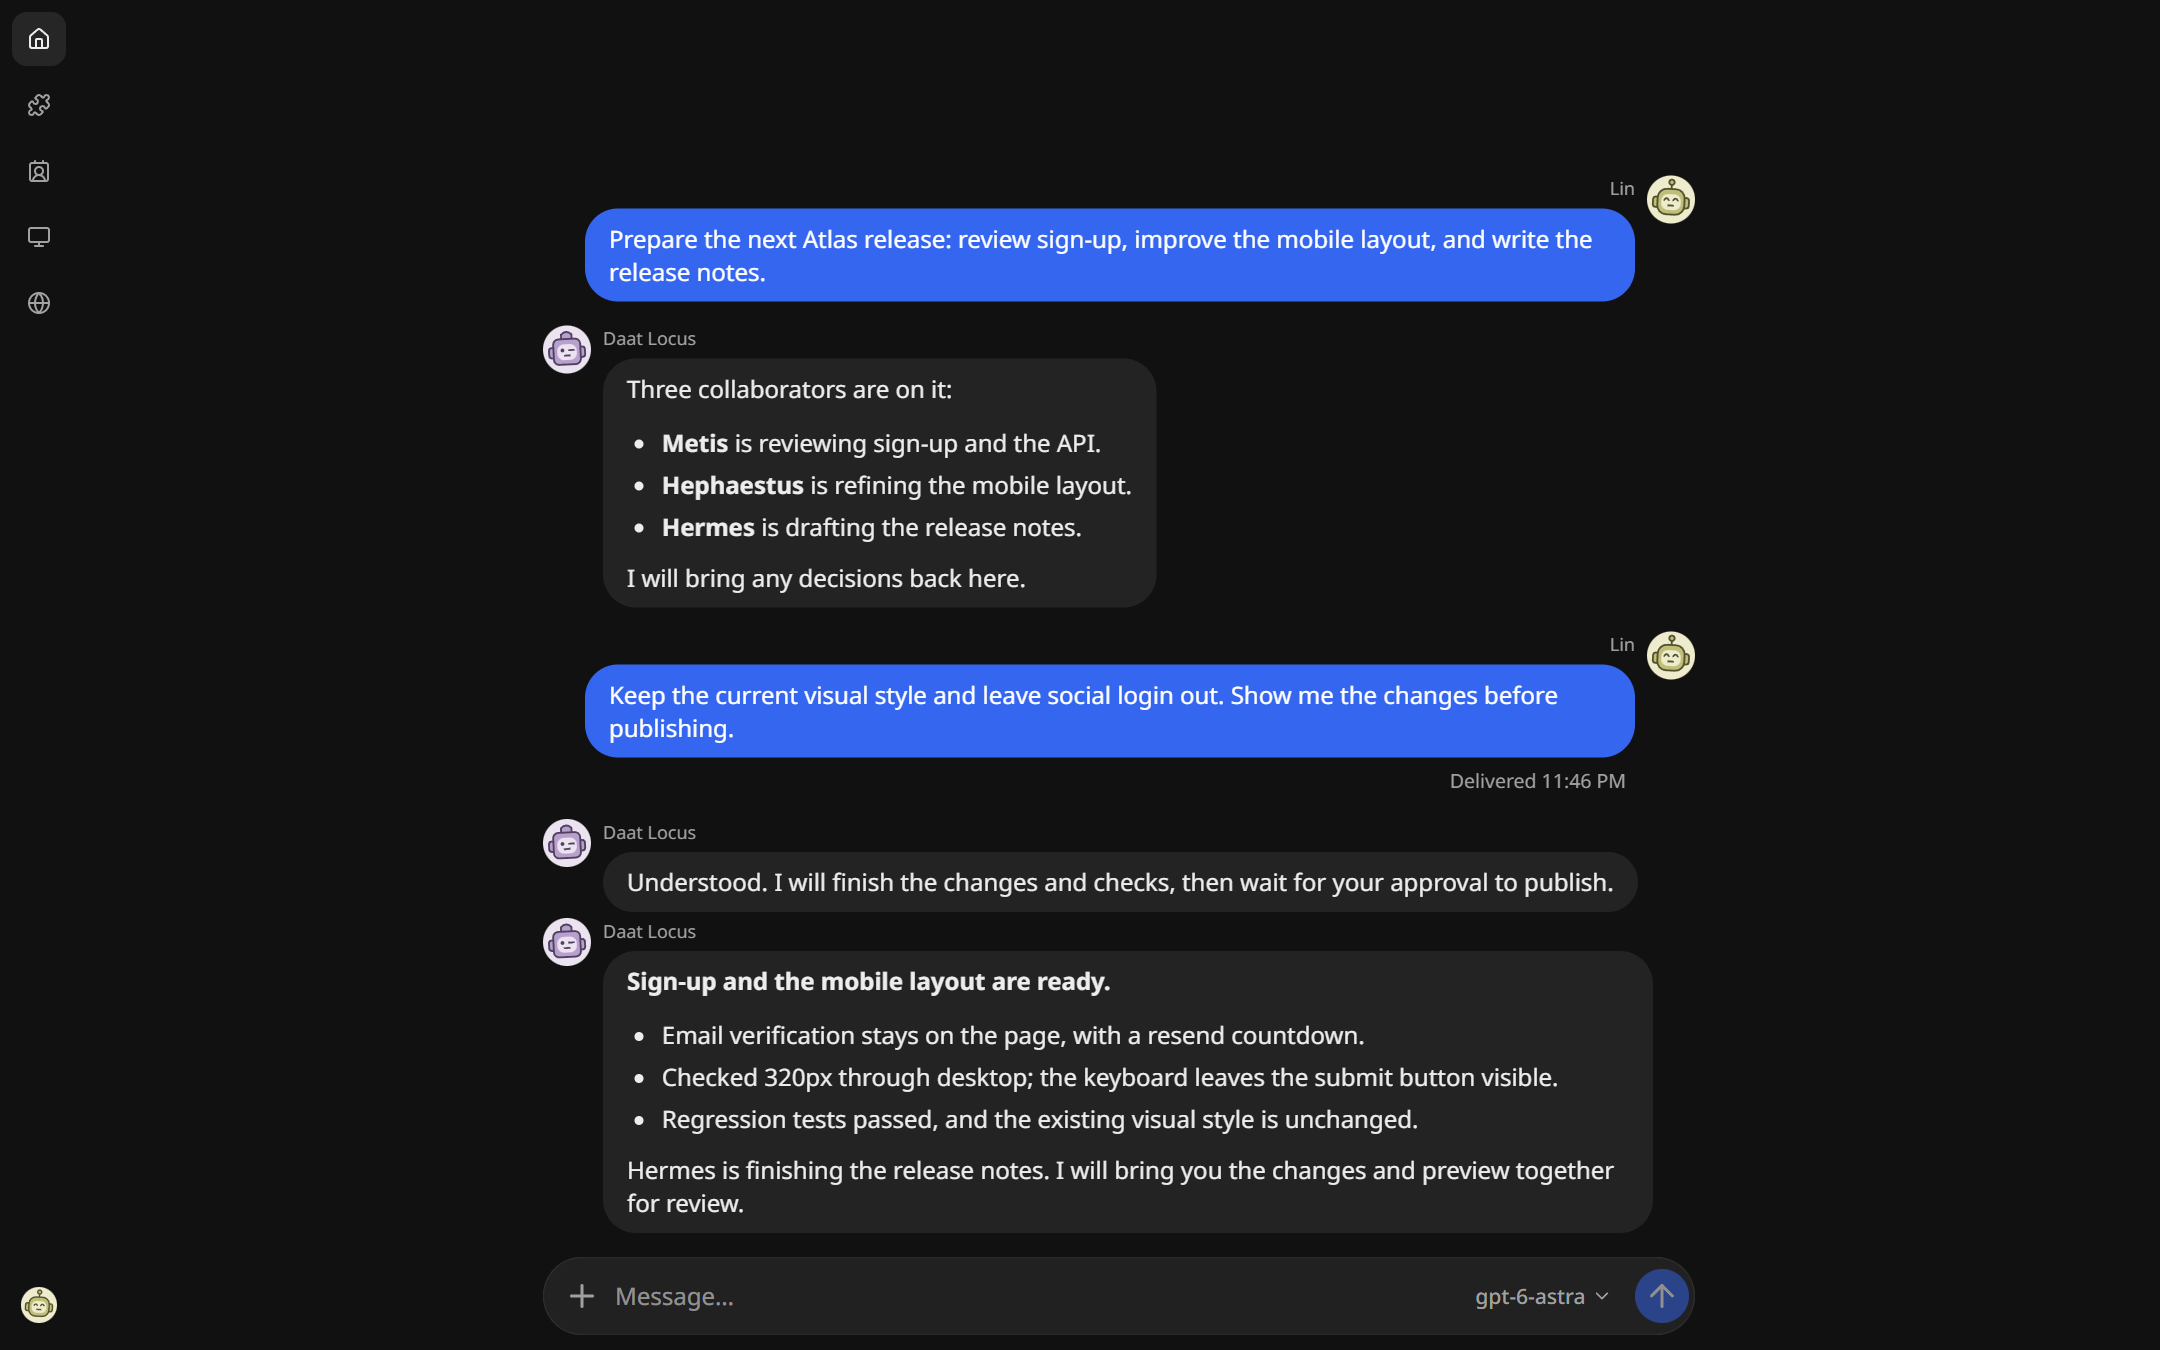
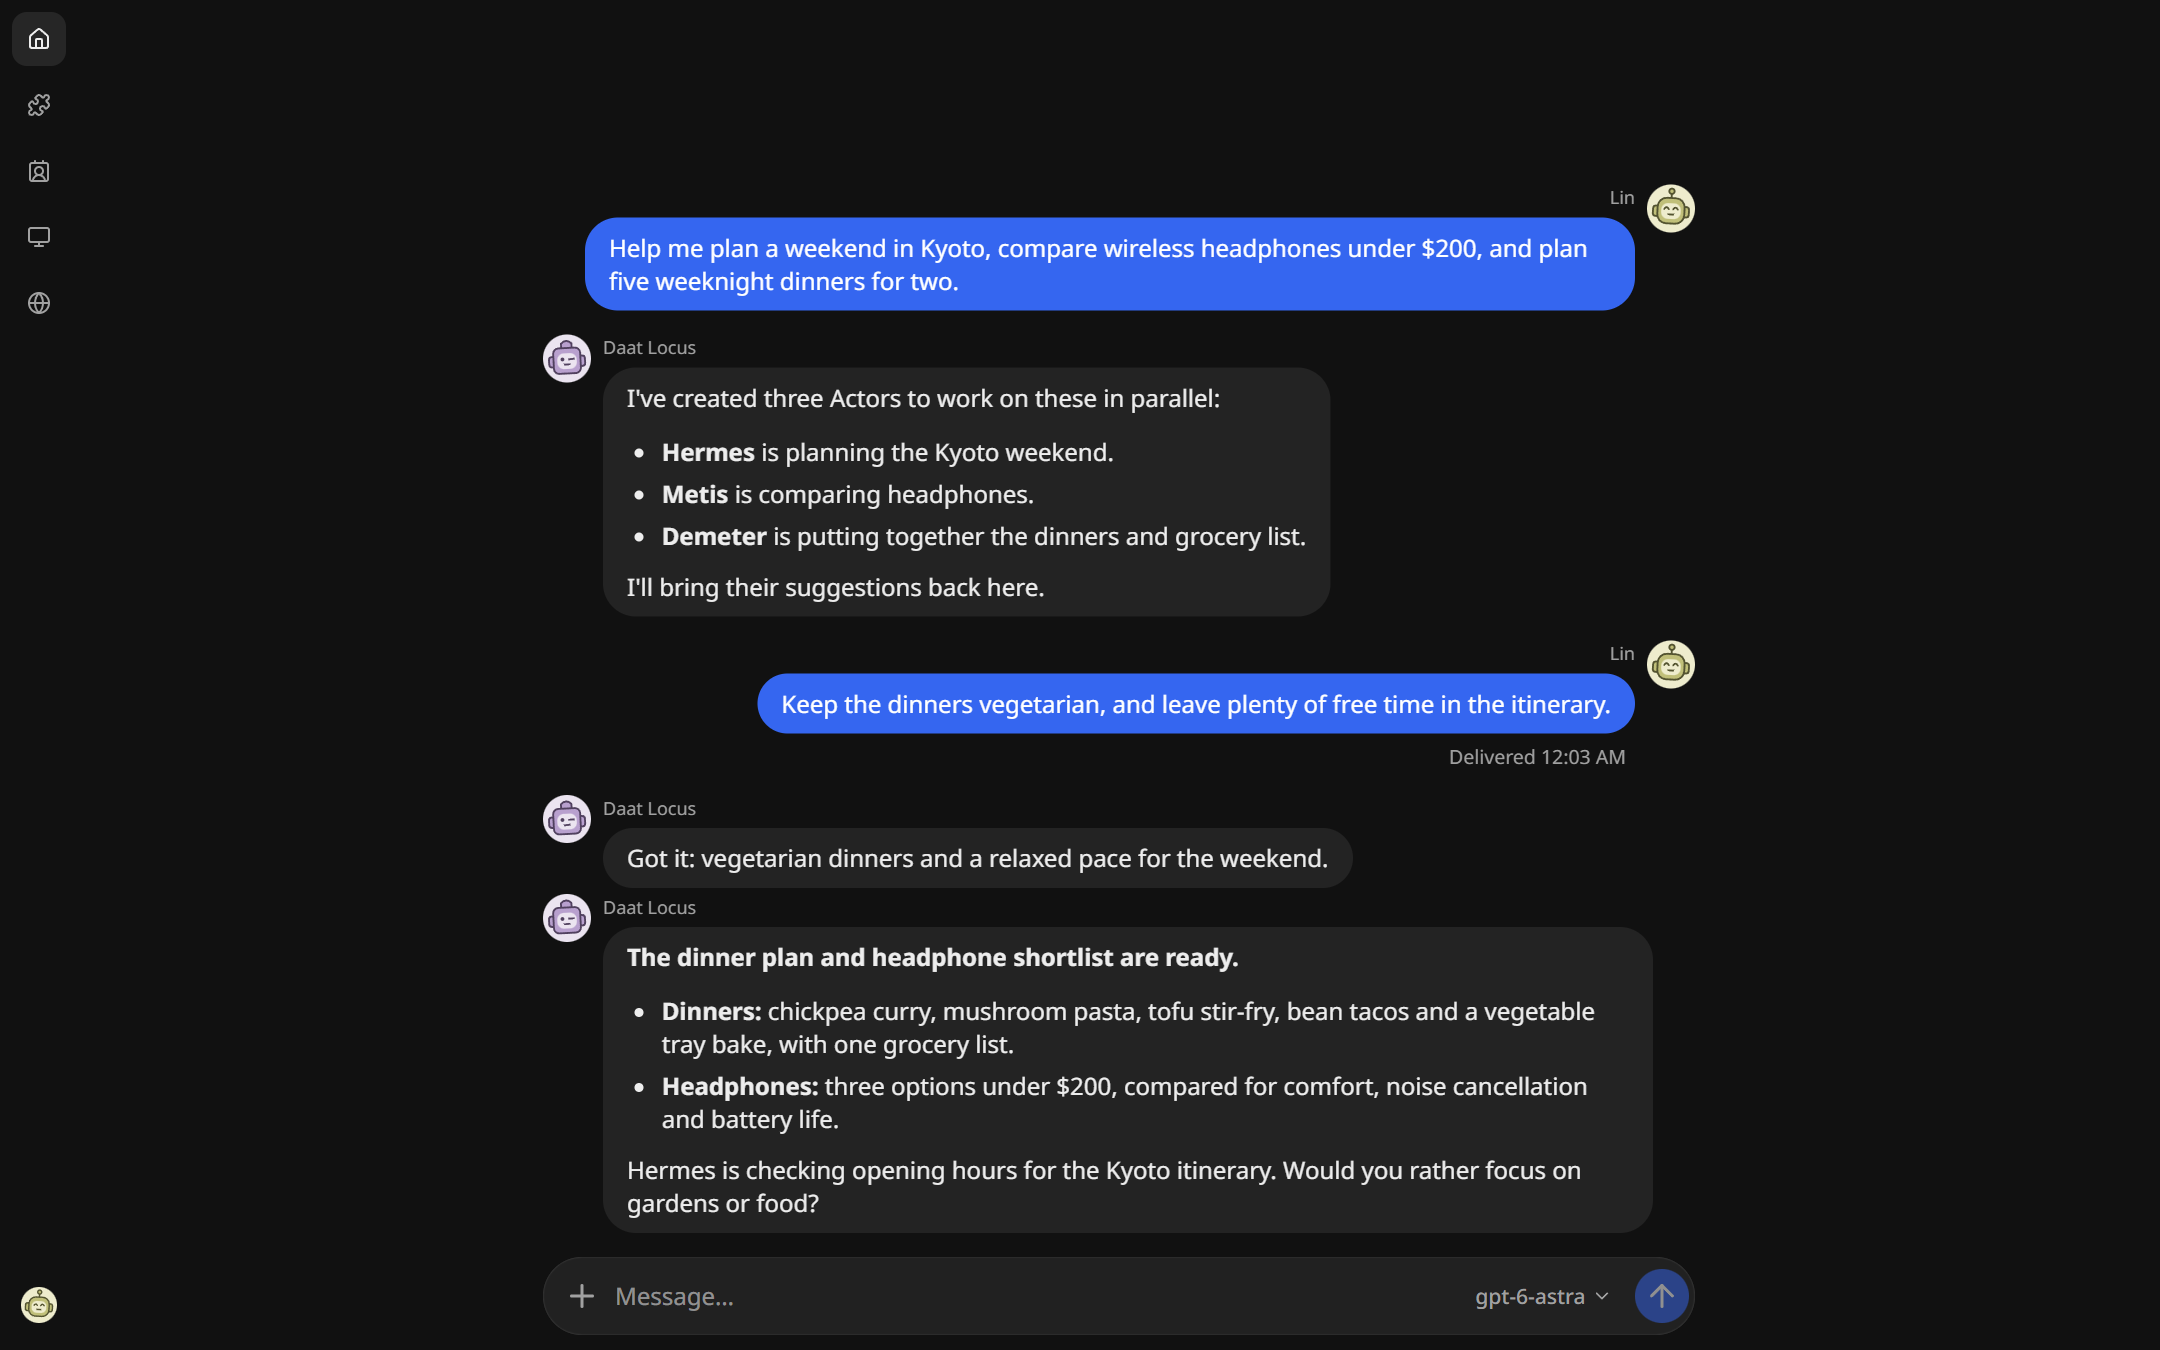
docs: show everyday Actor tasks in README screenshots

Changed region(s): [[0.2481, 0.1244, 0.8065, 0.5911], [0.2481, 0.5911, 0.7444, 0.9022]]

diff --git a/webui/mock/workspace.ts b/webui/mock/workspace.ts
@@ -1,4 +1,4 @@
-/** A normal account conversation about several collaborators preparing a release. */
+/** An everyday account conversation with several Actors working in parallel. */
 import { addMessage, configHolder, createActor, emitEvent, now, requestOrigin, ROOT_ACTOR_ID, setActorStatus, touchMessage, type ActorStore } from "./state";
 
 export function seedWorkspacePreview(core:ActorStore,metis:ActorStore) {
@@ -15,17 +15,17 @@ export function seedWorkspacePreview(core:ActorStore,metis:ActorStore) {
     emitEvent(core.summary.id,{type:"message_added",message_id:input.id});
     return input;
   }
-  const task=exchange("Prepare the next Atlas release: review sign-up, improve the mobile layout, and write the release notes.", "Three collaborators are on it:\n\n- **Metis** is reviewing sign-up and the API.\n- **Hephaestus** is refining the mobile layout.\n- **Hermes** is drafting the release notes.\n\nI will bring any decisions back here.",8);
-  exchange("Keep the current visual style and leave social login out. Show me the changes before publishing.", "Understood. I will finish the changes and checks, then wait for your approval to publish.",6);
-  const developers=[metis,...["Hephaestus","Hermes"].map((name,index)=>createActor({id:name.toLowerCase(),name,parent_id:ROOT_ACTOR_ID,model:aliases[index===0?2:1],workspace:"~/Projects/atlas",apps:[],instructions:""}))];
-  const tasks=["Review email verification and resend behavior in the sign-up API.","Improve the mobile sign-up layout while preserving the current style.","Draft release notes for the sign-up and mobile changes. Do not publish."];
-  for(const [index,actor] of developers.entries()) {
+  const task=exchange("Help me plan a weekend in Kyoto, compare wireless headphones under $200, and plan five weeknight dinners for two.", "I've created three Actors to work on these in parallel:\n\n- **Hermes** is planning the Kyoto weekend.\n- **Metis** is comparing headphones.\n- **Demeter** is putting together the dinners and grocery list.\n\nI'll bring their suggestions back here.",8);
+  exchange("Keep the dinners vegetarian, and leave plenty of free time in the itinerary.", "Got it: vegetarian dinners and a relaxed pace for the weekend.",6);
+  const collaborators=[metis,...["Demeter","Hermes"].map(name=>createActor({id:name.toLowerCase(),name,parent_id:ROOT_ACTOR_ID,model:aliases[1],workspace:"~/Documents/Plans",apps:[],instructions:""}))];
+  const tasks=["Compare wireless headphones under $200 for comfort, noise cancellation and battery life.","Plan five vegetarian weeknight dinners for two, with one grocery list.","Plan a relaxed two-day Kyoto itinerary with plenty of free time. Check opening hours and group nearby stops."];
+  for(const [index,actor] of collaborators.entries()) {
     const input=addMessage(actor,{kind:"request",source:{kind:"actor",actor_id:ROOT_ACTOR_ID},reply_to:{kind:"actor",actor_id:ROOT_ACTOR_ID,request_id:task.id},content:tasks[index],status:index===2?"running":"completed"});
-    touchMessage(input,{created_at_ms:clock-7*60000,started_at_ms:clock-7*60000+800,finished_at_ms:index===2?null:clock-2*60000,reply:index===2?null:["Email verification and resending are checked. The regression tests passed.","Checked widths from 320px to desktop. The submit button stays visible above the keyboard."][index]});
+    touchMessage(input,{created_at_ms:clock-7*60000,started_at_ms:clock-7*60000+800,finished_at_ms:index===2?null:clock-2*60000,reply:index===2?null:["Three headphones shortlisted under $200, with a comparison of comfort, noise cancellation and battery life.","Five vegetarian dinners planned: chickpea curry, mushroom pasta, tofu stir-fry, bean tacos and a vegetable tray bake. The grocery list combines shared ingredients."][index]});
     emitEvent(actor.summary.id,{type:"message_added",message_id:input.id});
     setActorStatus(actor,index===2?"running":"idle");
   }
   const delivery=addMessage(core,{kind:"delivery",source:{kind:"actor",actor_id:ROOT_ACTOR_ID},reply_to:{kind:"user"},in_reply_to:task.id,content:"",status:"completed"});
-  touchMessage(delivery,{created_at_ms:clock-60000,started_at_ms:clock-60000,finished_at_ms:clock-59000,reply:"**Sign-up and the mobile layout are ready.**\n\n- Email verification stays on the page, with a resend countdown.\n- Checked 320px through desktop; the keyboard leaves the submit button visible.\n- Regression tests passed, and the existing visual style is unchanged.\n\nHermes is finishing the release notes. I will bring you the changes and preview together for review."});
+  touchMessage(delivery,{created_at_ms:clock-60000,started_at_ms:clock-60000,finished_at_ms:clock-59000,reply:"**The dinner plan and headphone shortlist are ready.**\n\n- **Dinners:** chickpea curry, mushroom pasta, tofu stir-fry, bean tacos and a vegetable tray bake, with one grocery list.\n- **Headphones:** three options under $200, compared for comfort, noise cancellation and battery life.\n\nHermes is checking opening hours for the Kyoto itinerary. Would you rather focus on gardens or food?"});
   emitEvent(core.summary.id,{type:"message_added",message_id:delivery.id});
 }
